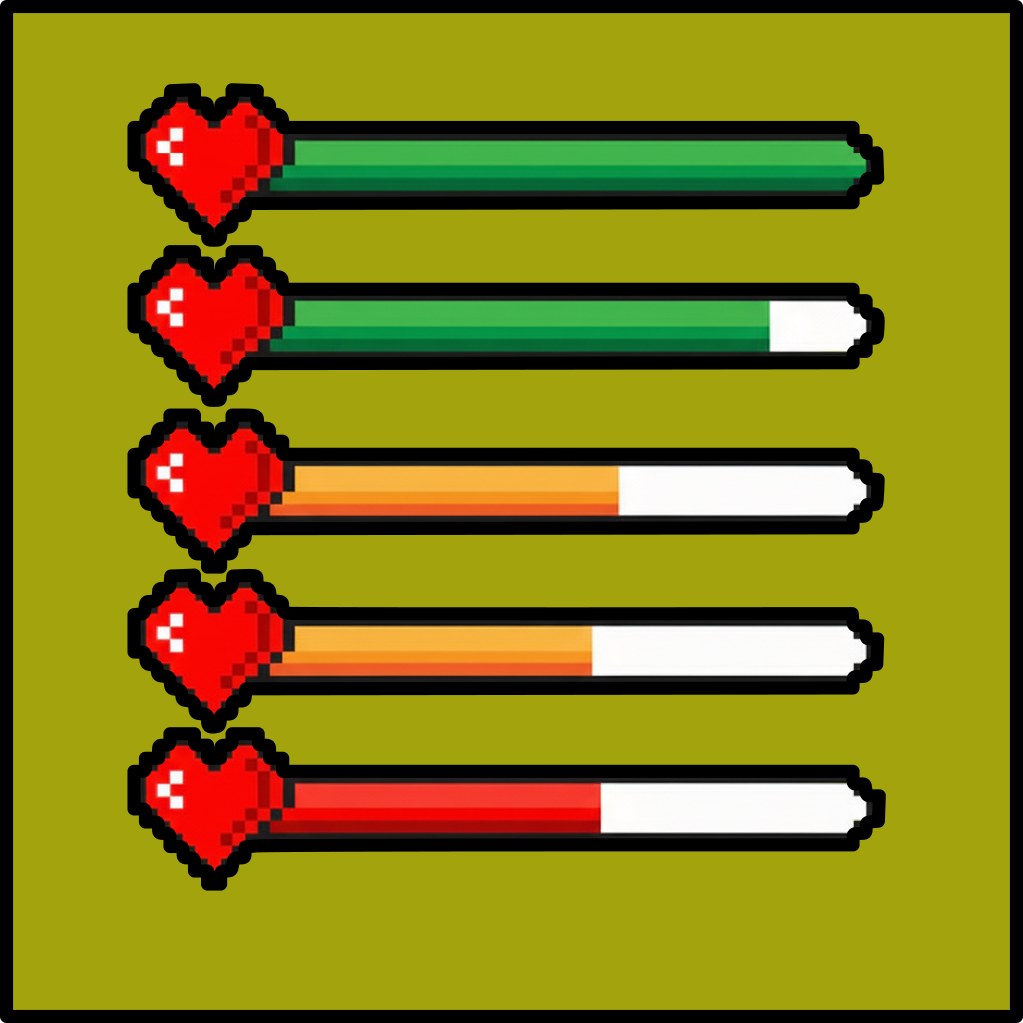
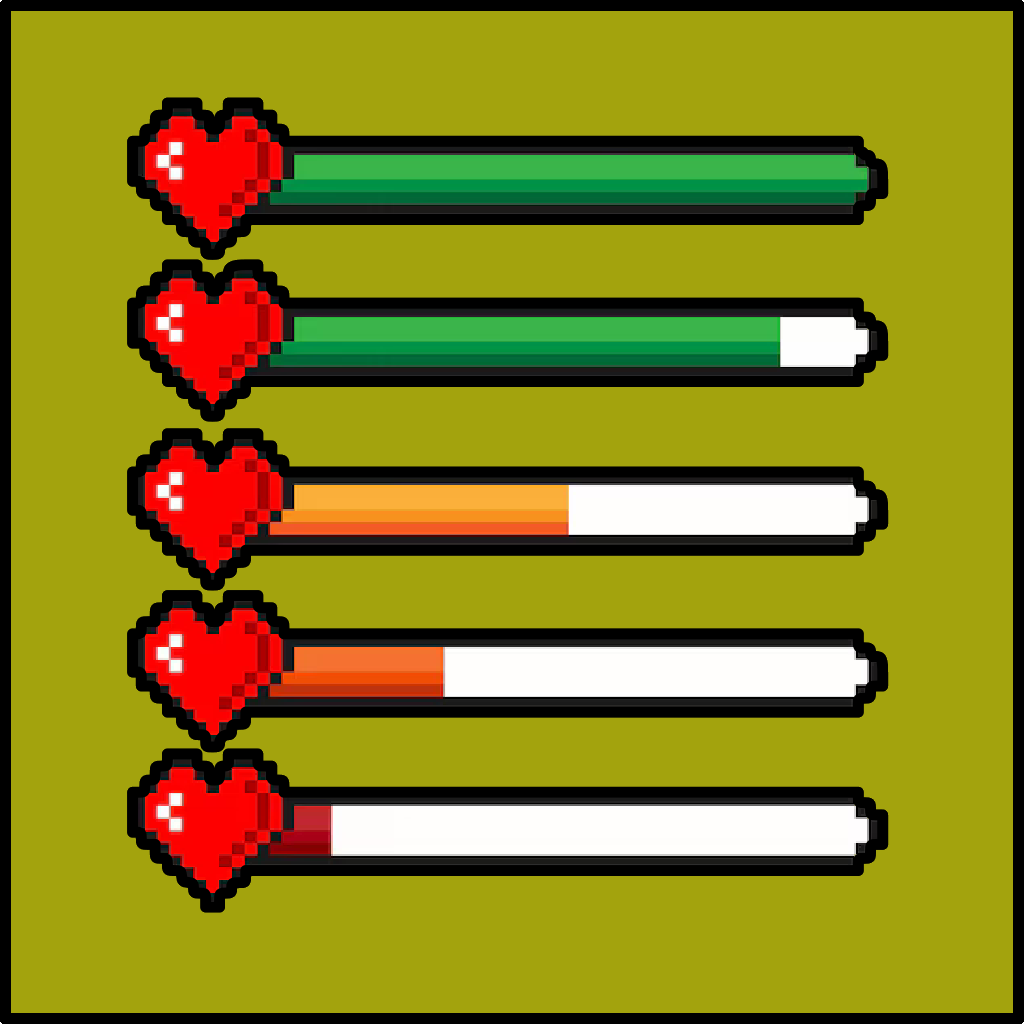
fix: barra de vida, se arregla la imagen y sus medidas en life_bar.cpp

diff --git a/client/Game/resources/life_bar.cpp b/client/Game/resources/life_bar.cpp
@@ -9,11 +9,11 @@
 LifeBarSpriteSheet::LifeBarSpriteSheet(const SdlWindow& window):
         texture_life_bar(LIFE_BAR_SPRITE_SHEET_FILE, window,
                          Rgb(BACKGROUND_COLOR_R, BACKGROUND_COLOR_G, BACKGROUND_COLOR_B)) {
-    sprites.emplace(PercentageLifeBar::FULL, Area(127, 84, 756, 162));
-    sprites.emplace(PercentageLifeBar::EIGHTY, Area(127, 246, 756, 162));
-    sprites.emplace(PercentageLifeBar::FIFTY, Area(127, 408, 756, 162));
-    sprites.emplace(PercentageLifeBar::TWENTY_FIVE, Area(127, 570, 756, 162));
-    sprites.emplace(PercentageLifeBar::TEN, Area(127, 732, 756, 162));
+    sprites.emplace(PercentageLifeBar::FULL, Area(123, 94, 767, 165));
+    sprites.emplace(PercentageLifeBar::EIGHTY, Area(123, 259, 767, 165));
+    sprites.emplace(PercentageLifeBar::FIFTY, Area(123, 424, 767, 165));
+    sprites.emplace(PercentageLifeBar::TWENTY_FIVE, Area(123, 589, 767, 160));
+    sprites.emplace(PercentageLifeBar::TEN, Area(123, 749, 767, 163));
 }
 
 void LifeBarSpriteSheet::render(int max_life, int current_life, const Area& dest) const {
